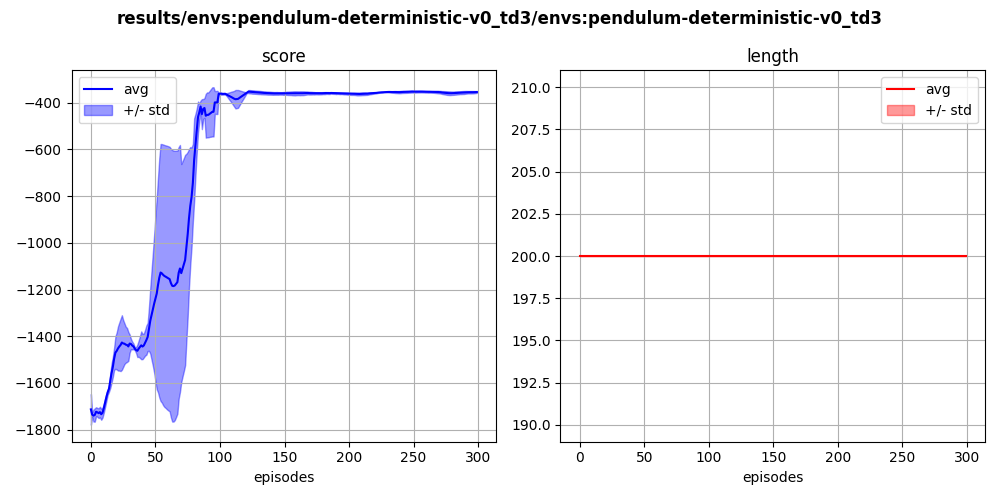
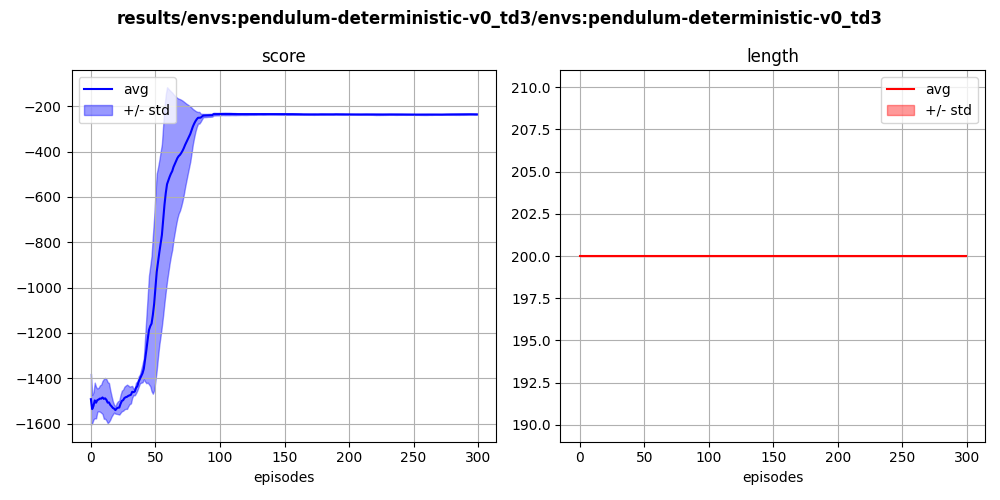
Improved results

Changed region(s): [[0.0, 0.18, 0.496, 0.87], [0.031, 0.27, 0.062, 0.33], [0.031, 0.18, 0.062, 0.24]]

diff --git a/envs/pendulum/pendulum.py b/envs/pendulum/pendulum.py
@@ -65,7 +65,7 @@ class PendulumDeterministic(gym.Env):
     ):
         super().reset(seed=seed)
         high = np.array([np.pi, 1])
-        self.state = np.array([3.14,0.0])
+        self.state = np.array([2.5,0.1])
         self.stp = 0
         #self.state = self.np_random.uniform(low=-high, high=high)
         self.last_u = None
